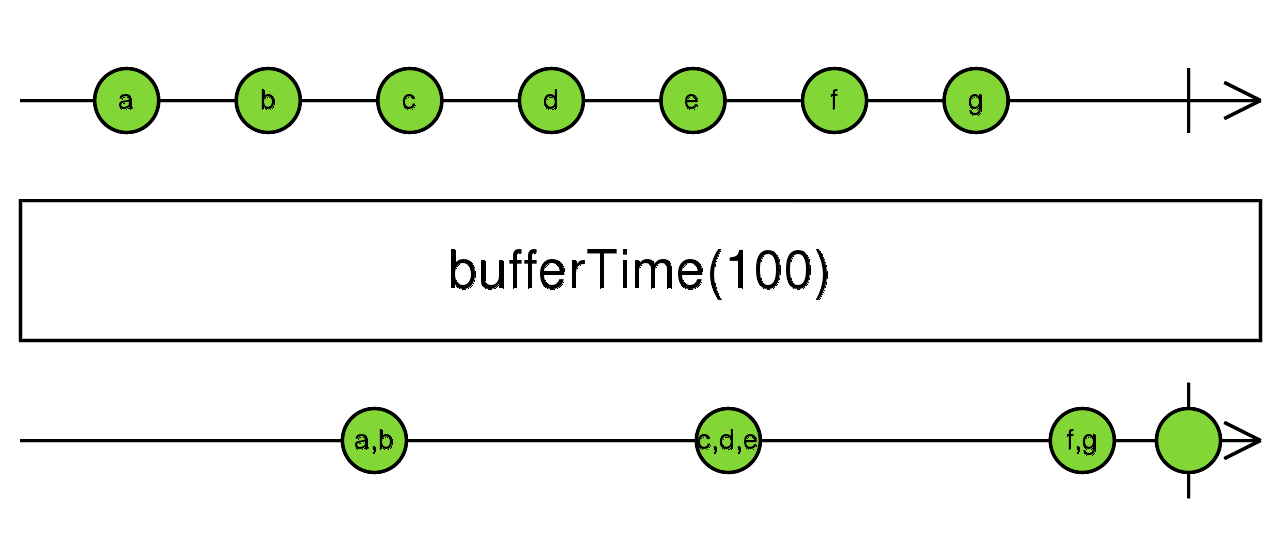
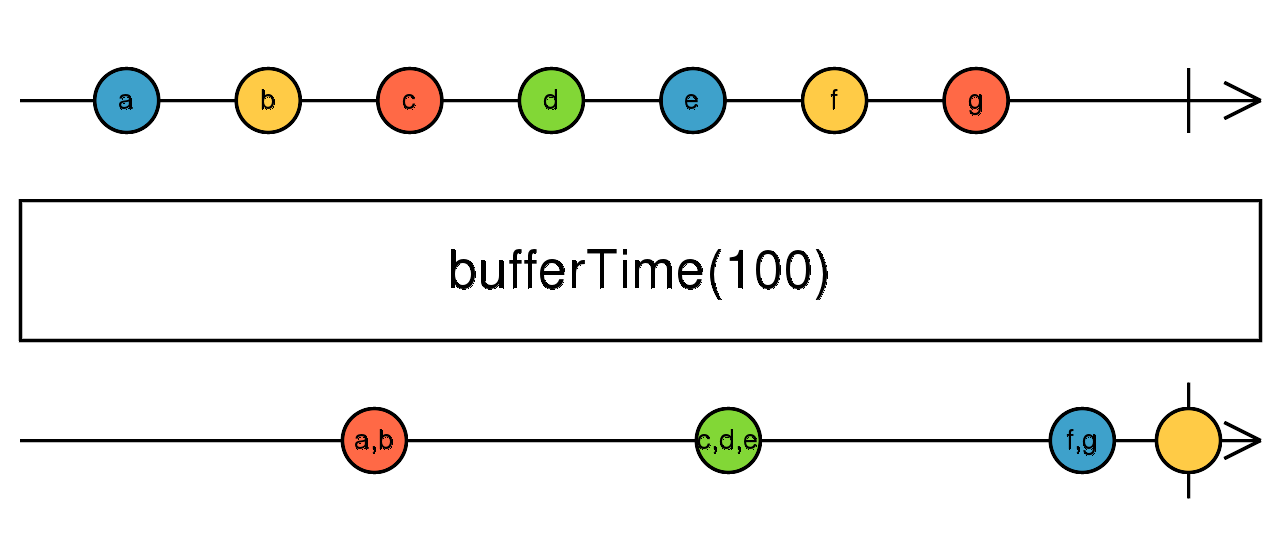
chore(tests2png): add dynamic color for marbles, according to content
For issue #697.

diff --git a/spec/helpers/tests2png/painter.js b/spec/helpers/tests2png/painter.js
@@ -10,6 +10,7 @@ var OBSERVABLE_END_PADDING = 4 * ARROW_HEAD_SIZE;
 var MARBLE_RADIUS = 32;
 var SIN_45 = 0.707106;
 var MESSAGES_WIDTH = (CANVAS_WIDTH - 2 * CANVAS_PADDING - OBSERVABLE_END_PADDING);
+var COLORS = ['#3EA1CB', '#FFCB46', '#FF6946', '#82D736'];
 
 function getMaxFrame(allStreams) {
   var allStreamsLen = allStreams.length;
@@ -23,6 +24,15 @@ function getMaxFrame(allStreams) {
     }
   }
   return max;
+}
+
+function stringToColor(str) {
+  var smallPrime1 = 59;
+  var smallPrime2 = 97;
+  var hash = str.split('')
+    .map(function (x) { return x.charCodeAt(0); })
+    .reduce(function (x, y) { return (x * smallPrime1) + (y * smallPrime2); }, 1);
+  return COLORS[hash % COLORS.length];
 }
 
 function drawObservableArrow(out, maxFrame, y, streamData) {
@@ -41,7 +51,7 @@ function drawObservableArrow(out, maxFrame, y, streamData) {
 
 function drawMarble(out, x, y, content) {
   out = out.stroke('#000000', 3);
-  out = out.fill('#82D736');
+  out = out.fill(stringToColor(String(content)));
   out = out.drawEllipse(x, y, MARBLE_RADIUS, MARBLE_RADIUS, 0, 360);
 
   out = out.strokeWidth(-1);

diff --git a/spec/operators/bufferWhen-spec.js b/spec/operators/bufferWhen-spec.js
@@ -4,10 +4,10 @@ var Observable = Rx.Observable;
 
 describe('Observable.prototype.bufferWhen', function () {
   it.asDiagram('bufferWhen')('should emit buffers that close and reopen', function () {
-    var e1 = hot('--a--^---b---c---d---e---f---g----------|');
+    var e1 = hot('--a--^---b---c---d---e---f---g---------|');
     var e2 = cold(    '--------------(s|)');
-    //                               ---------------(s|)
-    var expected =    '--------------x--------------y----(z|)';
+    //                               --------------(s|)
+    var expected =    '--------------x-------------y-----(z|)';
     var values = {
       x: ['b','c','d'],
       y: ['e','f','g'],
